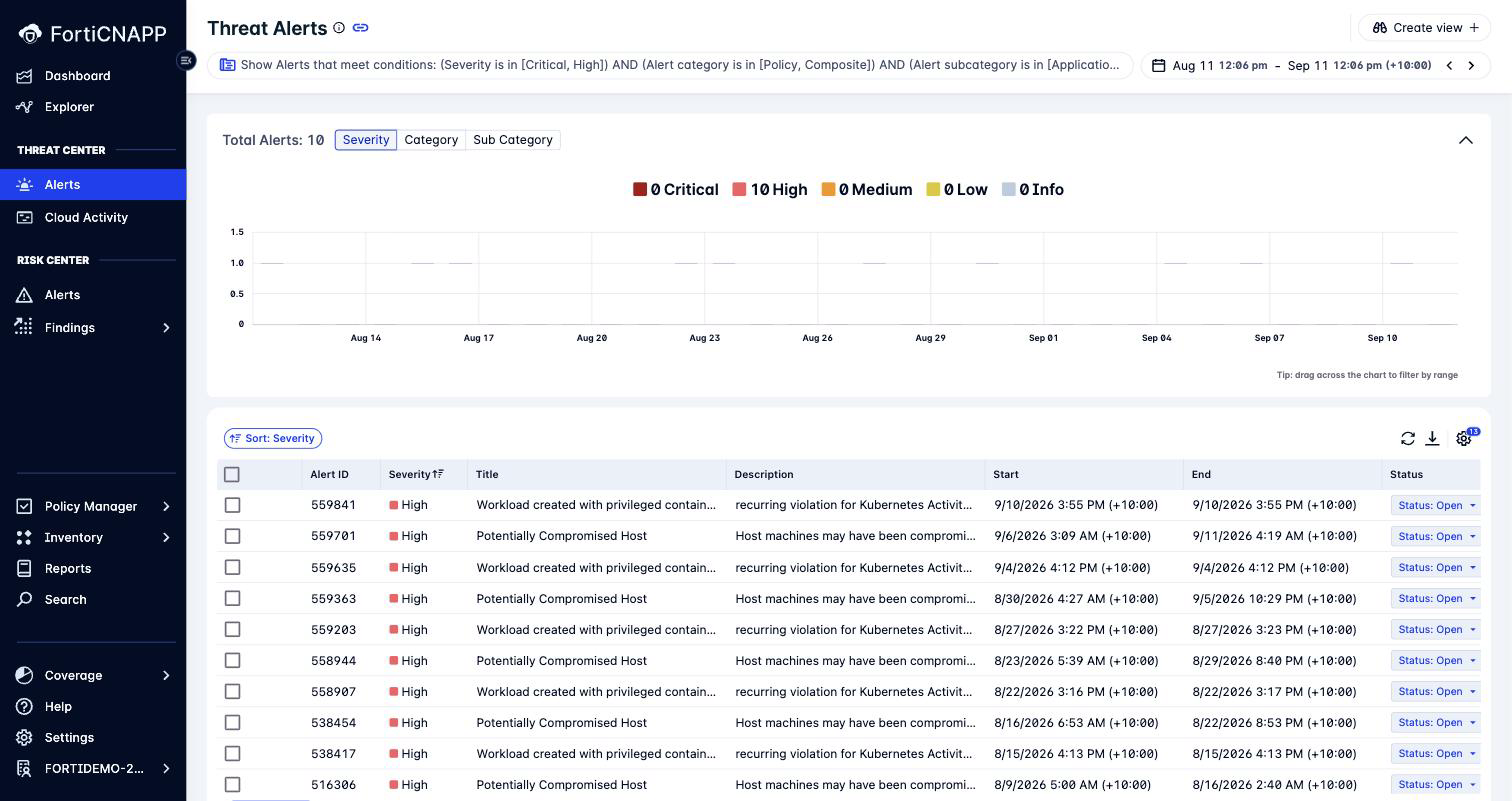
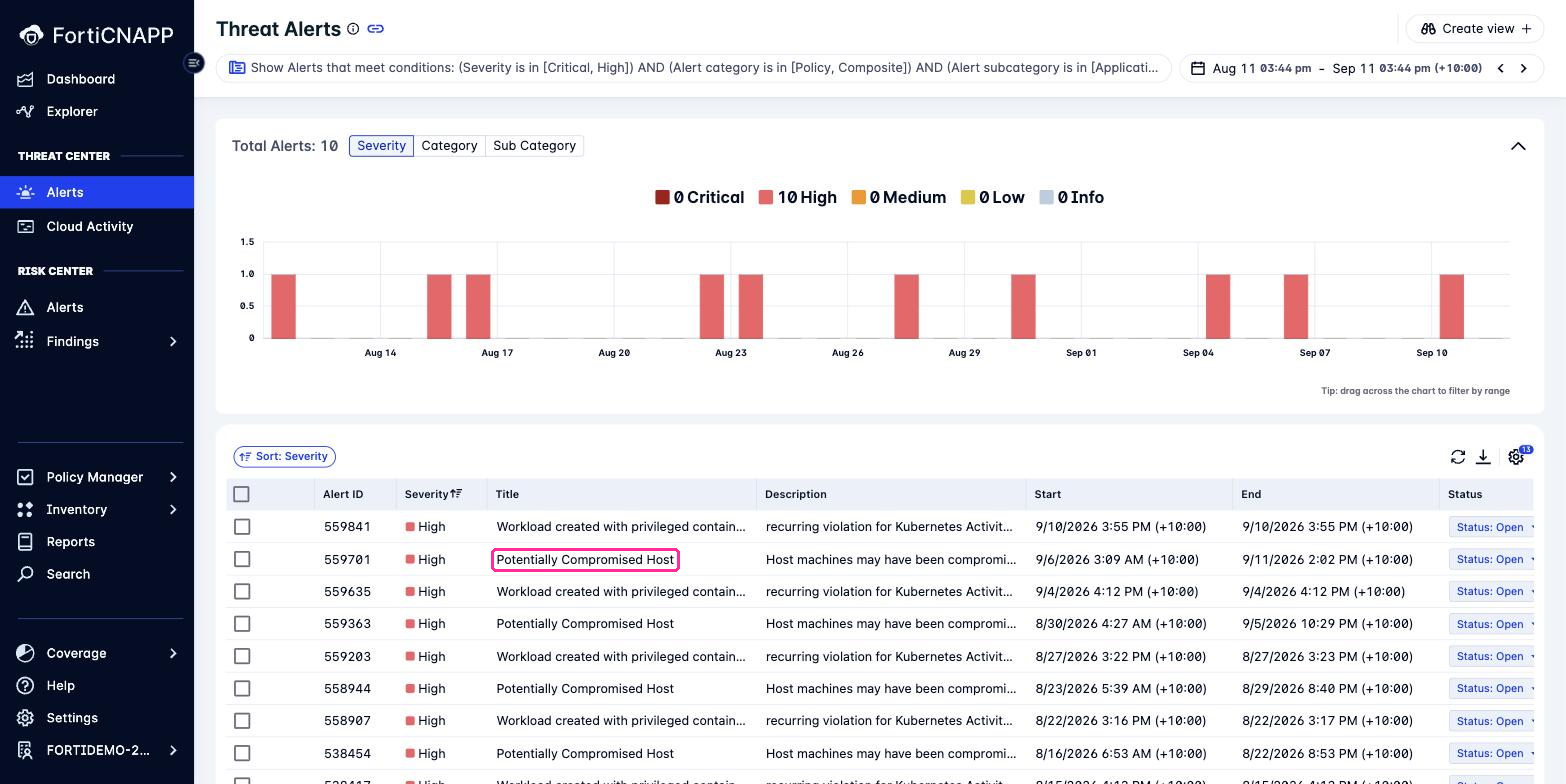
Lab 1: restructure around Explorer, and break it into eleven steps
This is the lab that sets up everything else, so it now gets room. Six
sections become eleven, each with its own checkpoint.

Explorer moves in front of the inventory, as Step 4. Building a query for
internet-exposed hosts and opening the graph shows the exposure as the
actual chain of AWS resources that permits it, with vulnerabilities,
compliance violations and alerts hanging off the host. One picture doing
the work four separate pages used to do.

Inventory then splits into what exists and what it does, which is where
the polygraph gets introduced: FortiCNAPP learns what normally runs and
who normally logs in, so it can flag behaviour it has never seen without
needing a signature. That is the argument for the agent in Labs 4 and 5.

"What do I fix first" was one step covering two views. It is now four:
attack paths, compliance, identities, vulnerabilities.

The compliance drill-down goes all the way down. Policies tab, already
filtered to non-compliant, into a Critical S3 policy granting access to
everyone, one bucket failing out of fifteen, then View context for the
description and numbered remediation. A finding is never just a red number.

Ten new screenshots, captured on FORTIDEMO-2026-04 and redacted.

Also corrects Lab 7: the menu label is Infrastructure (IaC), not IaC.

Claude-Session: https://claude.ai/code/session_012U8fXbmmMrtCVct3EfwV84

diff --git a/lab-01/README.md b/lab-01/README.md
@@ -3,8 +3,7 @@
 ## Objectives
 
 Before you connect anything, look at an environment that is already connected and full of
-real findings. Five questions, in the order you would actually ask them on your first day
-owning a cloud estate.
+real findings.
 
 By the end you will know what the later labs are building towards, and roughly where
 things live in the console.
@@ -13,8 +12,8 @@ things live in the console.
 
 - Your email address added to the FortiCNAPP demo environment
 
-> **This lab uses a different tenant to the rest of the workshop.** Lab 1 runs in
-> **FORTIDEMO-2026-04**, which is full of demo data. From Lab 3 onward you work in
+> Lab 1 takes you through a **read-only demo tenant**, populated with vulnerable
+> applications with signs of compromise. From Lab 3 onward you work in
 > **FORTINETAPACDEMO**, where you onboard your own AWS account. Watch the tenant name at
 > the bottom of the left navigation.
 
@@ -59,8 +58,8 @@ into one of them.
 
 | Widget | What it counts | Which lab creates it |
 |---|---|---|
-| **Threat alert overview** | Something is happening that looks like an attack | Lab 3, CloudTrail and agentless |
-| **Non-compliant resources** | Configuration that fails a benchmark | Lab 3, configuration |
+| **Threat alert overview** | Something is happening that looks like an attack | Lab 3, AWS CloudTrail and agentless |
+| **Non-compliant resources** | Configuration that fails a benchmark | Lab 3, AWS configuration |
 | **Exposed Fixable Hosts** | Internet-reachable hosts with a patchable vulnerability | Labs 3 to 5 |
 
 **Checkpoint:** you can read a number off each of the three widgets.
@@ -69,46 +68,94 @@ into one of them.
 > every host. Exposed, and fixable. That is the list you would actually work through on a
 > Monday morning.
 
-## Step 4: What have I got?
+## Step 4: Show me the exposed hosts
+
+**Explorer** answers questions about how things connect, rather than listing them.
+
+1. Go to **Explorer**.
+2. Click **Or use the Query Builder**.
+3. Leave **SHOW** set to **Hosts**.
+4. Click **Add clause**, choose **Internet Exposed**, leave it **True**, and click
+   **Add clause**.
+5. Click **Search Results**.
+
+![Explorer query results, showing internet exposed hosts with alert, attack path and compliance counts](images/forticnapp-explorer-query.png)
+
+Every one of these hosts can be reached from the internet. The columns beside them say how
+much trouble each one is in.
+
+6. Pick a row with a non-zero number under **Alerts** or **Attack Paths**, and click
+   **Graph**.
+7. Zoom in with the **+** control.
+
+![Explorer graph showing the path from internet gateway to an EC2 instance, with vulnerabilities, compliance violations and alerts attached](images/forticnapp-explorer-graph.png)
+
+**Checkpoint:** you can trace the red line from the internet gateway to the host.
+
+Read it left to right: internet gateway, load balancer, network interface, security group,
+then the host. That red line **is** the exposure, drawn as the actual chain of AWS
+resources that permits it. Hanging underneath are the host's vulnerabilities, compliance
+violations and alerts.
+
+One picture, four kinds of finding, and the reason they matter together.
+
+## Step 5: What have I got?
+
+Two views, because "what have I got" has two answers: what exists, and what it does.
+
+### What exists
 
 Go to **Inventory** > **Resource Inventory**.
 
 ![Resource Inventory listing cloud resources with alerts, compliance violations and attack paths](images/forticnapp-resource-inventory.png)
 
-1. Look at the total resource count at the top.
-2. Scroll the table. Note the **Alerts**, **Compliance violations** and **Attack Paths**
-   columns beside each resource.
-3. Use **Show more** to filter, for example by resource type.
+Nobody typed this in. FortiCNAPP asked AWS what exists. In a data centre you know what is
+in the rack because you put it there. In a cloud account, anyone with credentials can
+create something at three in the morning, so asking the provider is the only way to know.
 
-**Checkpoint:** you can see a resource with a non-zero number in at least one of those
-three columns.
+### What it does
 
-Nobody typed this inventory in. FortiCNAPP asked AWS what exists. In a data centre you know
-what is in the rack because you put it there; in a cloud account, anyone with credentials
-can create something at three in the morning. Asking the provider is the only way to know.
+Go to **Inventory** > **Hosts**, then the **Machines** tab. Give it a moment to load.
 
-## Step 5: What is happening right now?
+![Hosts Machines view showing unique machines, users, bytes and connections over time, with alerts alongside](images/forticnapp-hosts-machines.png)
+
+Look at the tabs: **Applications**, **Files**, **Machines**, **Networks**, **Processes**,
+**Users**. Every one is a record of behaviour over time, not a snapshot.
+
+**Checkpoint:** you can read **MAX** and **AVG/HR** off the Unique machines widget.
+
+> **This is the polygraph.** FortiCNAPP watches what normally runs, who normally logs in,
+> and what normally talks to what, then builds a baseline per host. It does not need a
+> signature for an attack it has never seen. It needs to know that this machine has never
+> done this before.
+>
+> That is why the agent in Labs 4 and 5 matters. A scan tells you what is installed. Only
+> something watching continuously can tell you that behaviour changed.
+
+## Step 6: What is happening right now?
 
 Go to **Threat Center** > **Alerts**.
 
-![Threat Alerts filtered to high severity, showing compromised hosts and privileged containers](images/forticnapp-threat-alerts.png)
+![Threat Alerts for the last month, showing Potentially Compromised Host entries](images/forticnapp-threat-alerts.png)
 
-1. Open one alert titled **Potentially Compromised Host**.
+The view defaults to **Critical and High, last month**. Widen the date range at the top
+right if you want more.
+
+1. Open an alert titled **Potentially Compromised Host**.
 2. Read the description and the affected resource.
-3. Go back and look at **Threat Center** > **Cloud Activity**, which is the CloudTrail
-   record of who did what in the account.
+3. Look at **Threat Center** > **Cloud Activity**, the CloudTrail record of who did what.
 
 **Checkpoint:** you have opened one alert and can say which host it refers to.
 
-Alerts come from behaviour, not configuration. A host reaching out to somewhere it never
-has before is a behavioural signal, and it needs the agent or CloudTrail to spot it. That is
-why Labs 3, 4 and 5 exist.
+> **Look for a composite alert if one is present**, such as a potentially compromised AWS
+> identity. Composite alerts are the ones built from several signals at once rather than a
+> single rule, and they are rare by design. If there is not one in the window, widen the
+> date range.
 
-## Step 6: What do I fix first?
+There is a second inbox at **Risk Center** > **Alerts**. Threat alerts say something is
+happening. Risk alerts say something is dangerous. Worth knowing both exist.
 
-You have thousands of findings and a finite Tuesday. Two views help you choose.
-
-### Attack Path
+## Step 7: What do I fix first: the toxic combinations
 
 Go to **Risk Center** > **Findings** > **Attack Path**.
 
@@ -121,25 +168,80 @@ vulnerable host that is internet-facing **and** holds credentials to something v
 private key sitting on a reachable host.
 
 One vulnerability on an isolated box is a ticket. The same vulnerability on an
-internet-facing box with a key to the database is an incident. Attack Path is how you tell
-the two apart.
+internet-facing box with a key to the database is an incident.
 
-### Compliance
+## Step 8: What do I fix first: compliance
 
 Go to **Risk Center** > **Findings** > **Compliance** > **Cloud**.
 
 ![Cloud Compliance dashboard showing frameworks including CIS, ISO 27001, NIST CSF and SOC 2](images/forticnapp-cloud-compliance.png)
 
-1. Look at the framework list: CIS, ISO/IEC 27001, NIST CSF, SOC 2 and others.
-2. Pick a framework and open it to see which policies fail and on which resources.
+The **Frameworks** tab scores the same findings against CIS, ISO/IEC 27001, NIST CSF, SOC 2
+and the rest. You do not re-scan for each one.
 
-**Checkpoint:** you can name one framework and the number of non-compliant resources
-against it.
+Now find a specific failure.
 
-The same underlying findings, scored against whichever standard your auditor cares about.
-You do not re-scan for each one.
+1. Click the **Policies** tab. It opens already filtered to
+   **Status = Has non-compliant resources**, which is the only filter that matters when you
+   are deciding what to do today.
+2. Search for `permission to everyone`.
 
-## Step 7: Could I have caught it earlier?
+![Compliance policies filtered to those with non-compliant resources, showing a Critical S3 policy](images/forticnapp-compliance-policies.png)
+
+3. Open **Ensure the attached S3 bucket policy does not grant 'Allow' permission to
+   everyone**. It is **Critical**.
+
+![Policy detail showing one non-compliant S3 bucket out of fifteen](images/forticnapp-compliance-policy.png)
+
+**Checkpoint:** 15 resources assessed, exactly **1** non-compliant, and you can see which
+bucket it is.
+
+One bucket in fifteen, with a policy granting access to everyone. Note the bucket's name
+while you are here. Confidence is not a control.
+
+4. Click **View context**, top left.
+
+![Fortinet documentation for the policy, showing Description and Remediation](images/forticnapp-policy-context.png)
+
+**Checkpoint:** you are reading the **Description** and a numbered **Remediation** for that
+exact policy.
+
+This is the part people miss. Every policy links straight to what it means and the steps to
+fix it, so a finding is never just a red number. Hand this page to whoever owns the bucket.
+
+## Step 9: What do I fix first: identities
+
+Go to **Risk Center** > **Findings** > **Identities**, then the **Top Identity Risks** tab.
+
+![Top at risk identities, with the risks attached to a critical AWS role](images/forticnapp-identities.png)
+
+Click the top identity and read the **Risks** panel on the right.
+
+**Checkpoint:** find an identity that allows full admin, and check its **Last used time**.
+
+A role that can do everything and has never been used is the cheapest fix in cloud
+security. Nothing breaks when you remove it, and it is one less thing for an attacker to
+find. Identity is usually the shortest path from a foothold to real damage.
+
+## Step 10: What do I fix first: vulnerabilities
+
+Go to **Risk Center** > **Findings** > **Vulnerabilities**, then the **Top items** tab.
+
+![Top vulnerabilities by impacted hosts, and top fixable packages with their fix versions](images/forticnapp-vulnerabilities.png)
+
+Two widgets, two different questions:
+
+| Widget | Answers |
+|---|---|
+| **Top vulnerabilities by impacted hosts** | Which CVE is on the most machines |
+| **Top fixable packages** | Which single upgrade closes the most CVEs |
+
+**Checkpoint:** find a package where one **Fix version** clears several CVEs at once.
+
+The second widget is the one to work from. Patching by CVE is endless. Patching by package
+is finite, and the **Fix version** column tells you exactly where to get to.
+
+## Step 11: Could I have caught it earlier?
 
 Go to **Risk Center** > **Findings** > **Code Security**.
 
@@ -156,13 +258,6 @@ infrastructure.
 
 Everything up to this point finds problems that are already running. This finds them in the
 code, before they exist in AWS. You do both in Labs 7 and 8.
-
-## Optional: ask your own question
-
-**Explorer** builds a visual query across resources and their relationships.
-**Search** runs a text query across everything FortiCNAPP holds.
-
-Both are worth five minutes if you have them. Neither is needed for the later labs.
 
 ## What did we do here?
 

diff --git a/lab-07/README.md b/lab-07/README.md
@@ -74,7 +74,7 @@ editor, in their own language.
 **Checkpoint:** you can name the single most common category of finding in this repo.
 
 > **Why your scan does not show up in the console.** Look under **Risk Center** >
-> **Findings** > **Code Security** > **IaC** and you will not find it. That is expected. A
+> **Findings** > **Code Security** > **Infrastructure (IaC)** and you will not find it. That is expected. A
 > CLI scan from CloudShell has no repository behind it.
 >
 > The **Assessments** view fills up when a repository is onboarded through
